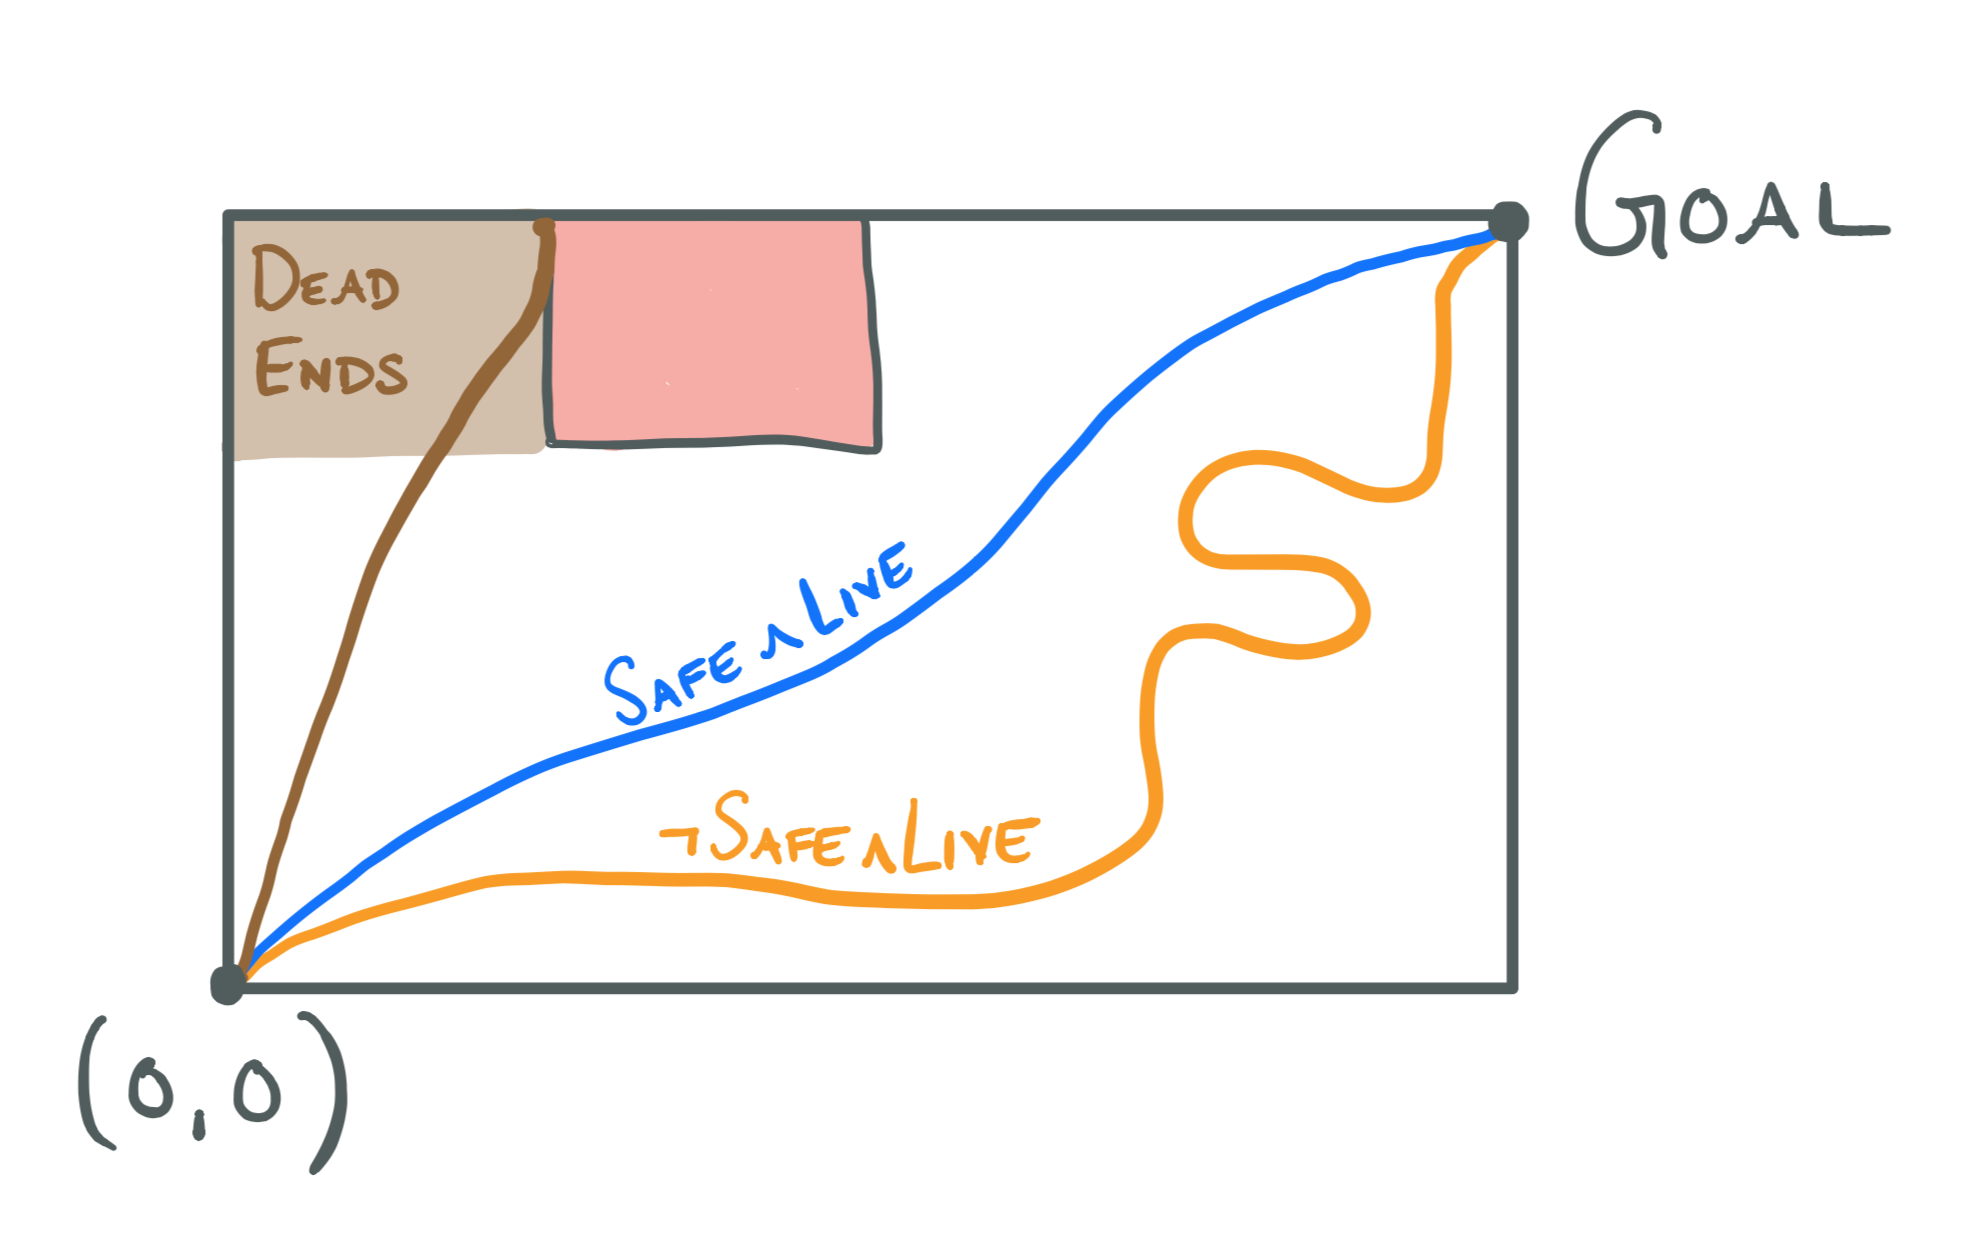
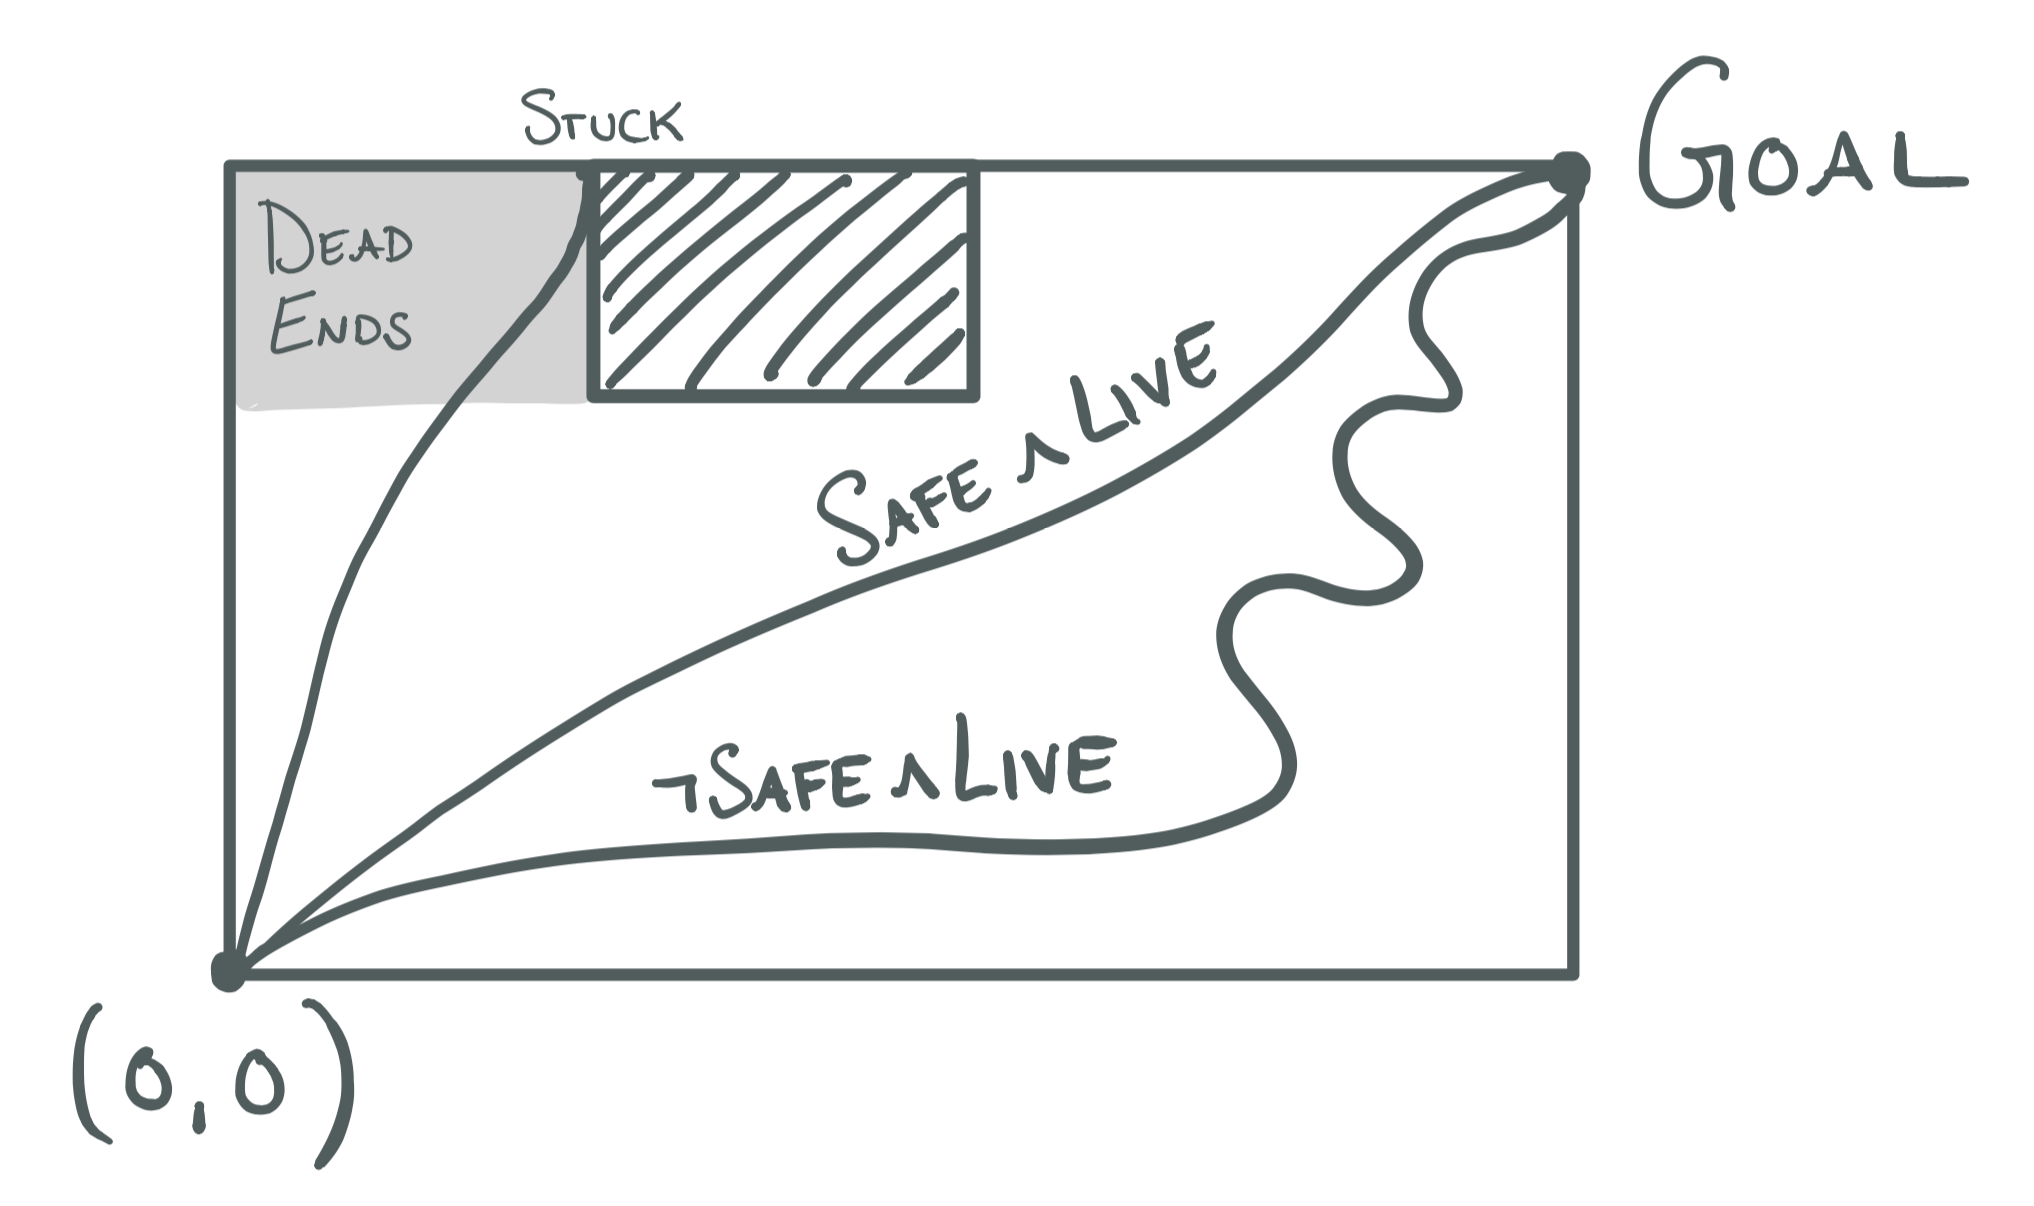
De-colorize diagram

Changed region(s): [[0.0309, 0.0614, 0.957, 0.9818], [0.8335, 0.0307, 0.8644, 0.0614]]

diff --git a/_posts/2020-08-05-machine-closure.md b/_posts/2020-08-05-machine-closure.md
@@ -16,7 +16,7 @@ Imagine we have a rectangular, two dimensional grid system, with an agent that s
 
 <img   src="/assets/machine-closure.png" width="65%" class="centerImg">
 
-We can impose an initial condition on the agent $$(x=0, y=0)$$ as well as a liveness requirement that says "eventually the agent reaches the goal". Any path through our grid system that leads from the start point to the goal point satisfies our specification. We can think of a path in this example as a system behavior. We can then modify our system to add a region near the top of the grid that the agent is not allowed to enter (the shaded, red region in the illustration). With our specified liveness property, the agent should be able to take routes that avoid or go around the obstacle and reach the goal. If, however, we impose an additional safety property that the agent "can only move up or to the right", then it's possible for the agent to get stuck in a corner, without the ability to get out and ever reach the goal. In the illustration, the orange path is one that satisfies our liveness property but not our safety property (since it winds left and right), the blue path satisfies both safety and liveness, and the brown path is one that gets stuck, unable to make any further progress. Indeed, any path that enters the brown shaded "dead ends" region is bound to get stuck in this way. That is, we can "paint ourselves into a corner" by simply taking steps that satisfy our safety property. More precisely, our system specification has allowed finite prefixes that satisfy the safety property but cannot be extended to satisfy our liveness property. 
+We can impose an initial condition on the agent $$(x=0, y=0)$$ as well as a liveness requirement that says "eventually the agent reaches the goal". Any path through our grid system that leads from the start point to the goal point satisfies our specification. We can think of a path in this example as a system behavior. We can then modify our system to add a region near the top of the grid that the agent is not allowed to enter (the shaded region in the illustration). With our specified liveness property, the agent should be able to take routes that avoid or go around the obstacle and reach the goal. If, however, we impose an additional safety property that the agent "can only move up or to the right", then it's possible for the agent to get stuck in a corner, without the ability to get out and ever reach the goal. In the illustration, the bottom path is one that satisfies our liveness property but not our safety property (since it winds left and right), the middle path satisfies both safety and liveness, and the path on the top left is one that gets stuck, unable to make any further progress. Indeed, any path that enters the gray shaded "dead ends" region is bound to get stuck in this way. That is, we can "paint ourselves into a corner" by simply taking steps that satisfy our safety property. More precisely, our system specification has allowed finite prefixes that satisfy the safety property but cannot be extended to satisfy our liveness property. 
 
 ### Formal Definition
 
